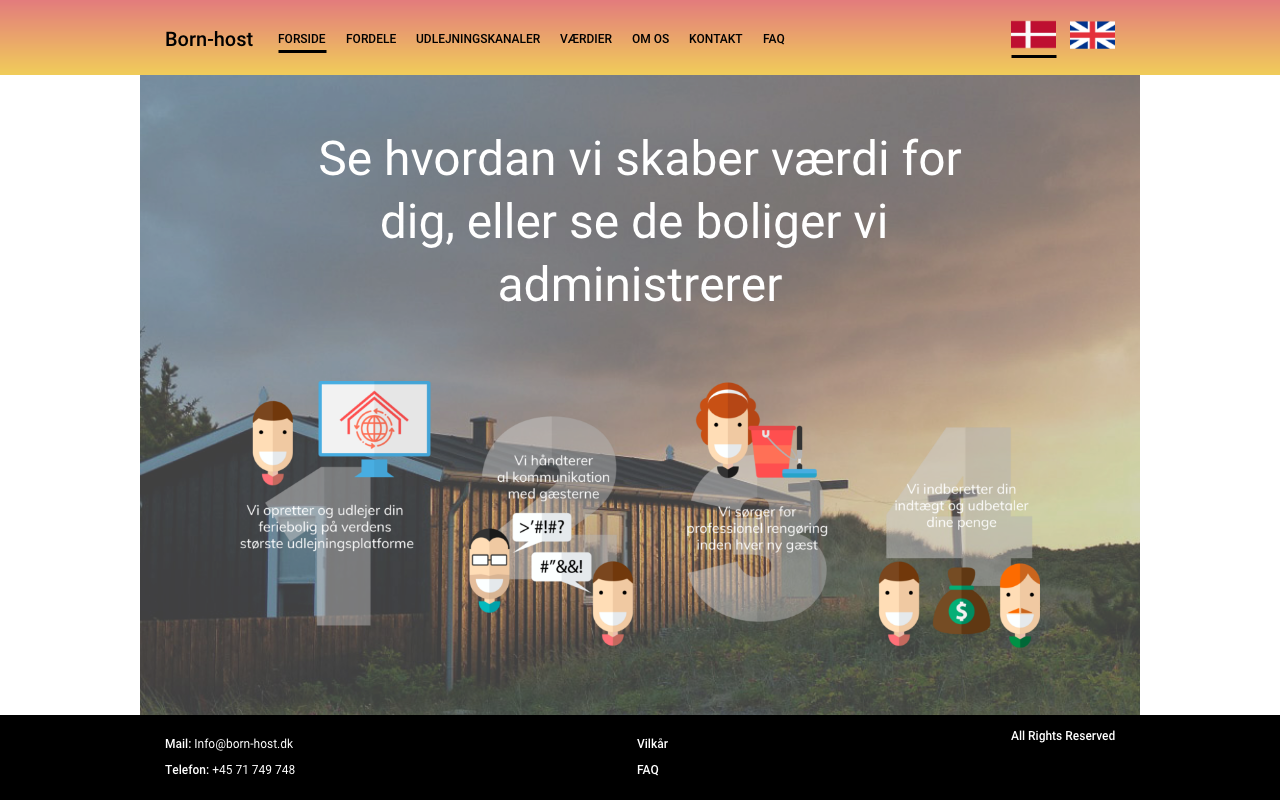
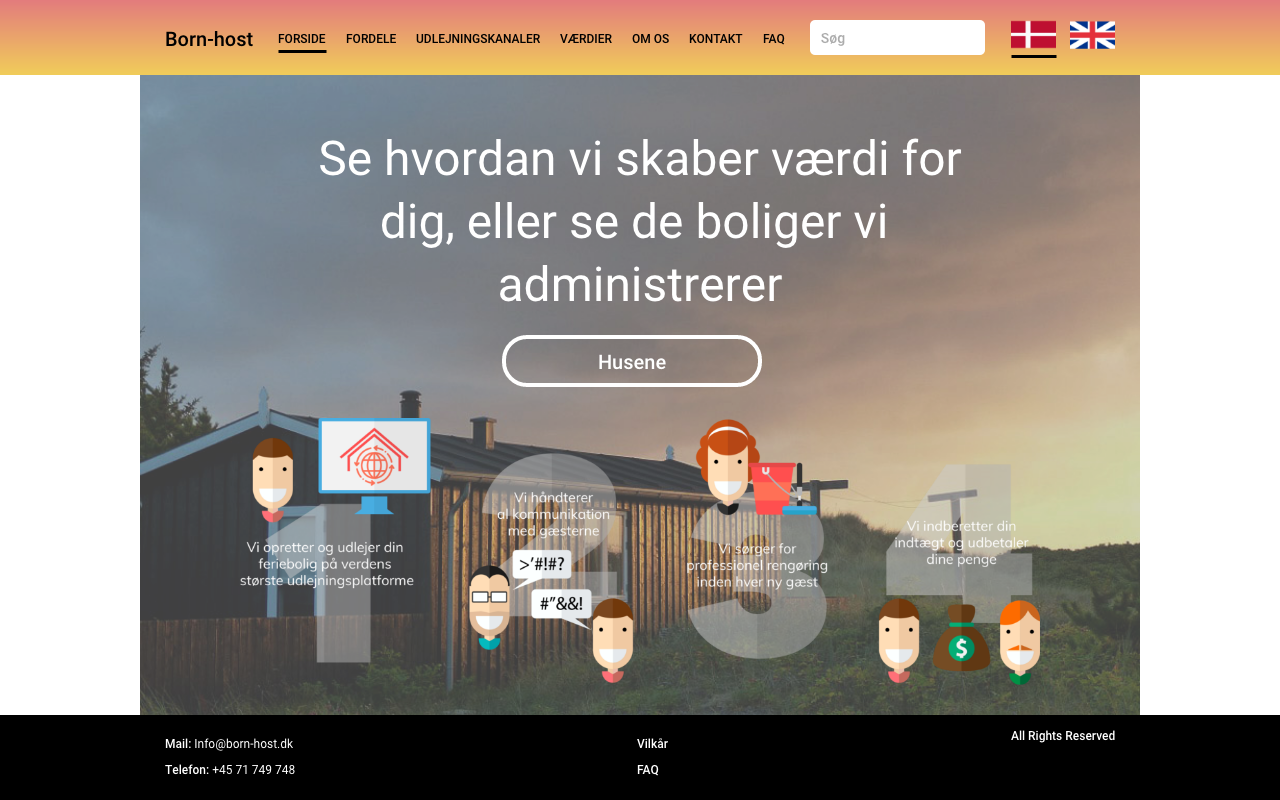
Uge-7

diff --git a/src/app/features/gangstertest/gangstertest.component.html b/src/app/features/gangstertest/gangstertest.component.html
@@ -533,7 +533,7 @@
         </p>
         <p>
           Websitet's har fået en fælles struktur, så alle undersider har en
-          titel, der ligeledes er indikeret i menu'en med en understregning.
+          titel, der ligeledes er indikeret i menu'en med en understregning, samt en søgefunktion.
         </p>
         <p>
           Det er muligt at se redesignet i Adobe XD ved klik
